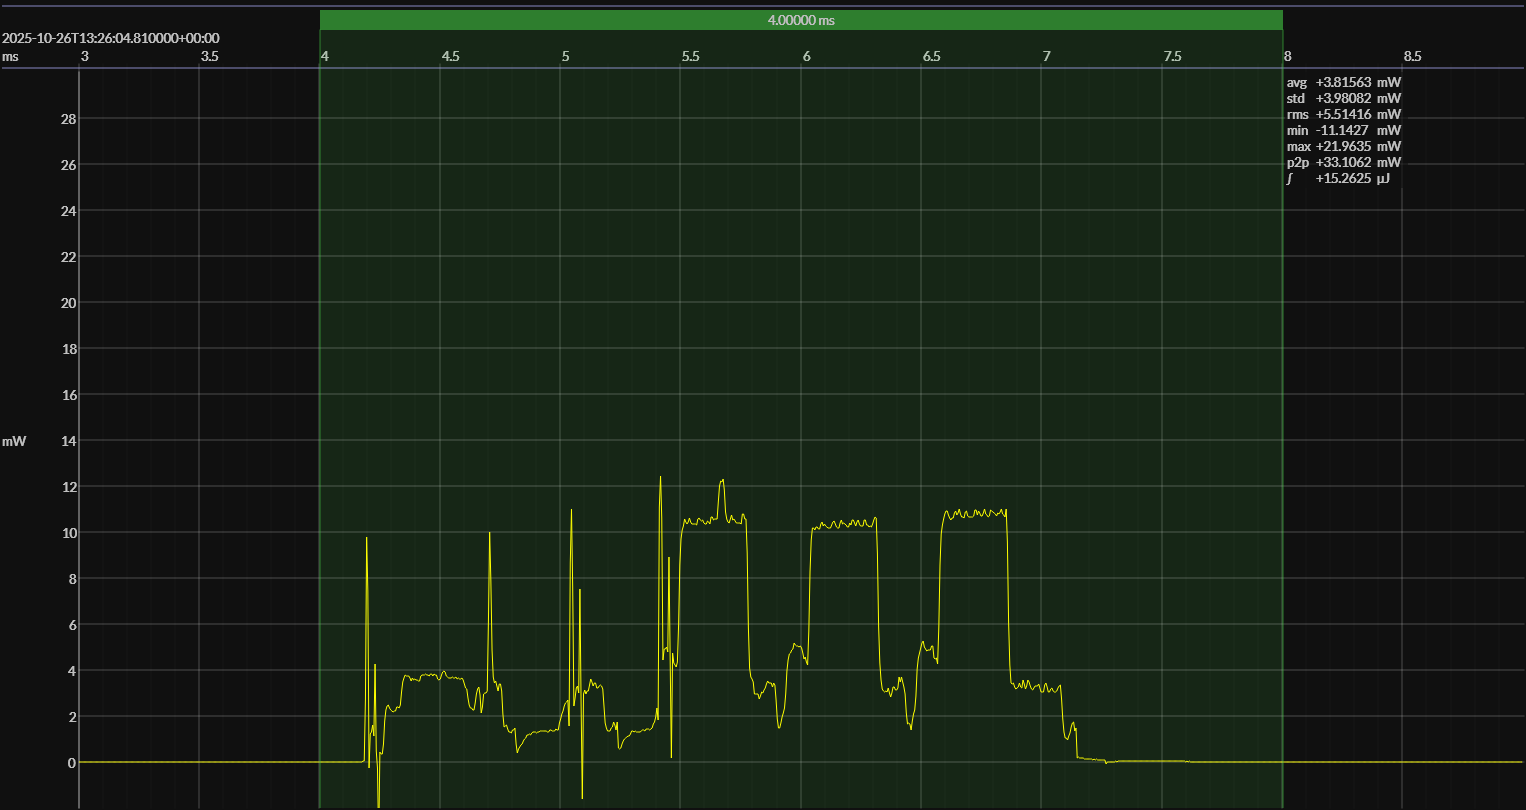
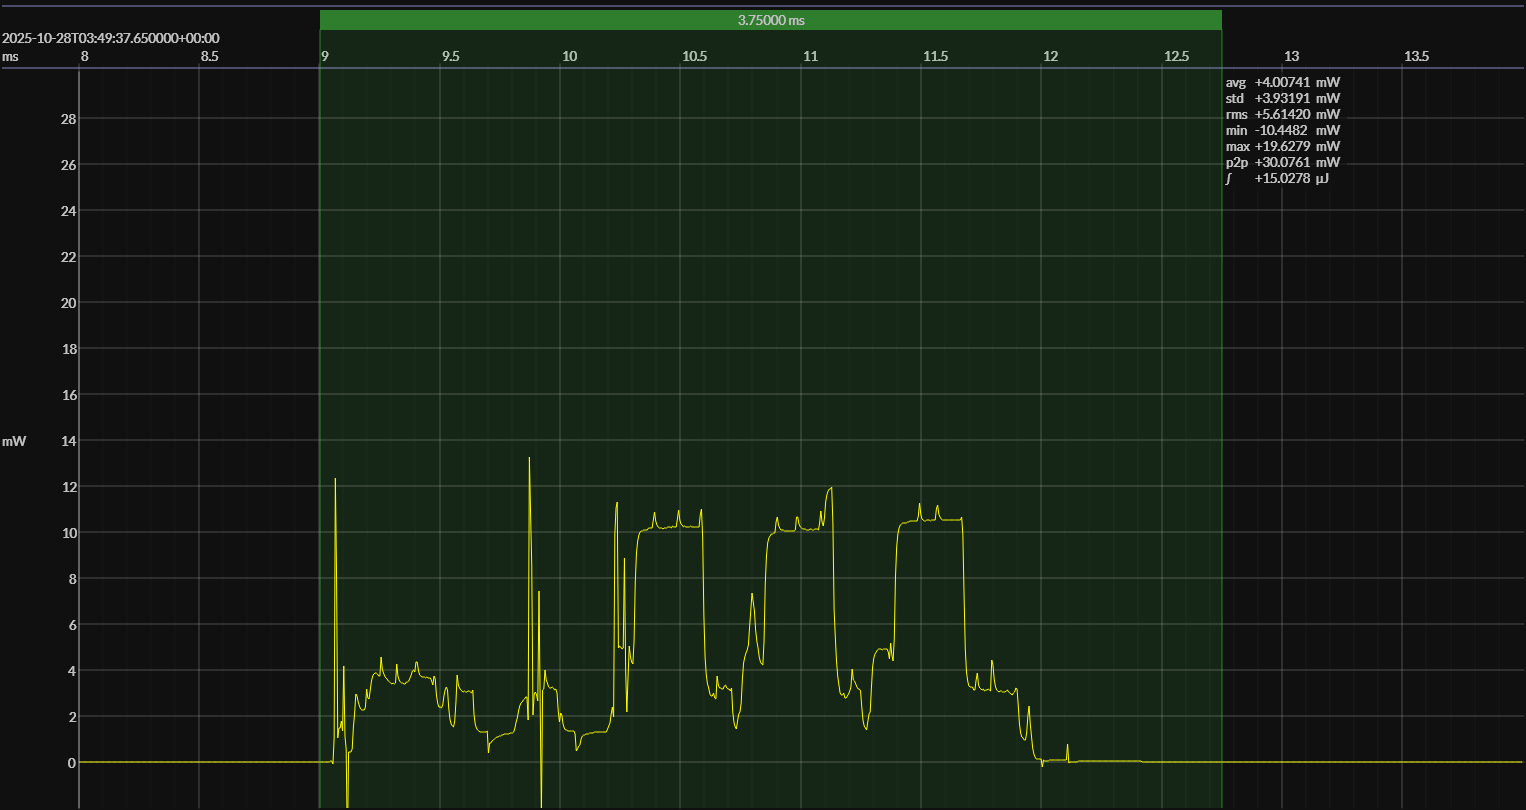
updated EMM capture; new record!!!

diff --git a/docs/ReadMore.md b/docs/ReadMore.md
@@ -1,3 +1,4 @@
+<!-- @upd|2025-10-28|latest EM Microelectronic 1V5 capture breaks 400 EM•erald mark|-->
 <!-- @upd|2025-10-26|improved score reporting; new 1V5 captures from EM Microelectronic and InPlay |-->
 <!-- @upd|2025-10-22|refreshed captures and screenshots for Nordic nRF52832|-->
 <!-- @upd|2025-10-17|new scores &ndash; EM Microelectronic EM9305 · EM Bleu SDK|-->
@@ -16,8 +17,8 @@
 <!-- @medal|1|js220/in-100-dk/nocode               |S| -->
 <!-- @medal|1|js220/nrf-54-dk/zephyr               |B| -->
 
-<!-- @medal|10|js220/in-100-dk/nocode              |G| -->
-<!-- @medal|10|js220/emm-9305-dvk/embleu           |S| -->
+<!-- @medal|10|js220/emm-9305-dvk/embleu           |G| -->
+<!-- @medal|10|js220/in-100-dk/nocode              |S| -->
 <!-- @medal|10|js220/ti-23-lp/simplelink           |B| -->
 
 
@@ -44,7 +45,8 @@ This repository uses **EM&bull;Scope** to benchmark **BlueJoule** &ndash; a repr
 
 <!-- @updates-begin -->
 <details><summary>
-&emsp;&thinsp;<img src="images/badge-2025-10-26.svg" height="16" alt="2025-10-12"></img>&emsp;improved score reporting; new 1V5 captures from EM Microelectronic and InPlay </summary><p>
+&emsp;&thinsp;<img src="images/badge-2025-10-28.svg" height="16" alt="2025-10-12"></img>&emsp;latest EM Microelectronic 1V5 capture breaks 400 EM•erald mark</summary><p>
+&emsp;&emsp;<img src="images/badge-2025-10-26.svg" height="16" alt="2025-10-12"></img>&emsp;improved score reporting; new 1V5 captures from EM Microelectronic and InPlay <br>
 &emsp;&emsp;<img src="images/badge-2025-10-22.svg" height="16" alt="2025-10-12"></img>&emsp;refreshed captures and screenshots for Nordic nRF52832<br>
 &emsp;&emsp;<img src="images/badge-2025-10-17.svg" height="16" alt="2025-10-12"></img>&emsp;new scores &ndash; EM Microelectronic EM9305 · EM Bleu SDK<br>
 &emsp;&emsp;<img src="images/badge-2025-09-11.svg" height="16" alt="2025-10-12"></img>&emsp;new scores &ndash; Nordic nRF52832 · EM&bull;Script SDK<br>
@@ -56,14 +58,14 @@ This repository uses **EM&bull;Scope** to benchmark **BlueJoule** &ndash; a repr
 
 <!-- @medals-begin -->
 <details><summary>&emsp;&ensp;1&thinsp;s event period [<img src="images/em-dot.svg" width="12" alt="">]</summary><p>
-&nbsp;&nbsp;&nbsp;&nbsp;&nbsp;&nbsp;&nbsp;&nbsp;&nbsp;&nbsp;&nbsp;&nbsp;&nbsp;&nbsp;&nbsp;&nbsp;&nbsp;&nbsp;&nbsp;&nbsp;&nbsp;&nbsp;&nbsp;&nbsp;<b>🥇</b>&emsp;<code> 56.82</code>&nbsp;&nbsp;&nbsp;&nbsp;&nbsp;&nbsp;&nbsp;&nbsp;&nbsp;&nbsp;&nbsp;📄&ensp;<a href="../captures/js220/emm-9305-dvk/embleu/ABOUT.md">&nearr;</a>&nbsp;&nbsp;EM Microelectronic EM9305 · EM Bleu SDK · 1V5<br>
+&nbsp;&nbsp;&nbsp;&nbsp;&nbsp;&nbsp;&nbsp;&nbsp;&nbsp;&nbsp;&nbsp;&nbsp;&nbsp;&nbsp;&nbsp;&nbsp;&nbsp;&nbsp;&nbsp;&nbsp;&nbsp;&nbsp;&nbsp;&nbsp;<b>🥇</b>&emsp;<code> 58.54</code>&nbsp;&nbsp;&nbsp;&nbsp;&nbsp;&nbsp;&nbsp;&nbsp;&nbsp;&nbsp;&nbsp;📄&ensp;<a href="../captures/js220/emm-9305-dvk/embleu/ABOUT.md">&nearr;</a>&nbsp;&nbsp;EM Microelectronic EM9305 · EM Bleu SDK · 1V5<br>
 &nbsp;&nbsp;&nbsp;&nbsp;&nbsp;&nbsp;&nbsp;&nbsp;&nbsp;&nbsp;&nbsp;&nbsp;&nbsp;&nbsp;&nbsp;&nbsp;&nbsp;&nbsp;&nbsp;&nbsp;&nbsp;&nbsp;&nbsp;&nbsp;<b>🥈</b>&emsp;<code> 51.56</code>&nbsp;&nbsp;&nbsp;&nbsp;&nbsp;&nbsp;&nbsp;&nbsp;&nbsp;&nbsp;&nbsp;📄&ensp;<a href="../captures/js220/in-100-dk/nocode/ABOUT.md">&nearr;</a>&nbsp;&nbsp;InPlay IN100 · &lt;no code&gt; · 1V5<br>
 &nbsp;&nbsp;&nbsp;&nbsp;&nbsp;&nbsp;&nbsp;&nbsp;&nbsp;&nbsp;&nbsp;&nbsp;&nbsp;&nbsp;&nbsp;&nbsp;&nbsp;&nbsp;&nbsp;&nbsp;&nbsp;&nbsp;&nbsp;&nbsp;<b>🥉</b>&emsp;<code> 39.61</code>&nbsp;&nbsp;&nbsp;&nbsp;&nbsp;&nbsp;&nbsp;&nbsp;&nbsp;&nbsp;&nbsp;📄&ensp;<a href="../captures/js220/nrf-54-dk/zephyr/ABOUT.md">&nearr;</a>&nbsp;&nbsp;Nordic nRF54L15 · Zephyr OS · 1V8<br>
 
 </p></details>
 <details><summary>&emsp;10&thinsp;s event period [<img src="images/em-dot.svg" width="12" alt="">]</summary><p>
-&nbsp;&nbsp;&nbsp;&nbsp;&nbsp;&nbsp;&nbsp;&nbsp;&nbsp;&nbsp;&nbsp;&nbsp;&nbsp;&nbsp;&nbsp;&nbsp;&nbsp;&nbsp;&nbsp;&nbsp;&nbsp;&nbsp;&nbsp;&nbsp;<b>🥇</b>&emsp;<code>386.73</code>&nbsp;&nbsp;&nbsp;&nbsp;&nbsp;&nbsp;&nbsp;&nbsp;&nbsp;&nbsp;&nbsp;📄&ensp;<a href="../captures/js220/in-100-dk/nocode/ABOUT.md">&nearr;</a>&nbsp;&nbsp;InPlay IN100 · &lt;no code&gt; · 1V5<br>
-&nbsp;&nbsp;&nbsp;&nbsp;&nbsp;&nbsp;&nbsp;&nbsp;&nbsp;&nbsp;&nbsp;&nbsp;&nbsp;&nbsp;&nbsp;&nbsp;&nbsp;&nbsp;&nbsp;&nbsp;&nbsp;&nbsp;&nbsp;&nbsp;<b>🥈</b>&emsp;<code>361.76</code>&nbsp;&nbsp;&nbsp;&nbsp;&nbsp;&nbsp;&nbsp;&nbsp;&nbsp;&nbsp;&nbsp;📄&ensp;<a href="../captures/js220/emm-9305-dvk/embleu/ABOUT.md">&nearr;</a>&nbsp;&nbsp;EM Microelectronic EM9305 · EM Bleu SDK · 1V5<br>
+&nbsp;&nbsp;&nbsp;&nbsp;&nbsp;&nbsp;&nbsp;&nbsp;&nbsp;&nbsp;&nbsp;&nbsp;&nbsp;&nbsp;&nbsp;&nbsp;&nbsp;&nbsp;&nbsp;&nbsp;&nbsp;&nbsp;&nbsp;&nbsp;<b>🥇</b>&emsp;<code>408.41</code>&nbsp;&nbsp;&nbsp;&nbsp;&nbsp;&nbsp;&nbsp;&nbsp;&nbsp;&nbsp;&nbsp;📄&ensp;<a href="../captures/js220/emm-9305-dvk/embleu/ABOUT.md">&nearr;</a>&nbsp;&nbsp;EM Microelectronic EM9305 · EM Bleu SDK · 1V5<br>
+&nbsp;&nbsp;&nbsp;&nbsp;&nbsp;&nbsp;&nbsp;&nbsp;&nbsp;&nbsp;&nbsp;&nbsp;&nbsp;&nbsp;&nbsp;&nbsp;&nbsp;&nbsp;&nbsp;&nbsp;&nbsp;&nbsp;&nbsp;&nbsp;<b>🥈</b>&emsp;<code>386.73</code>&nbsp;&nbsp;&nbsp;&nbsp;&nbsp;&nbsp;&nbsp;&nbsp;&nbsp;&nbsp;&nbsp;📄&ensp;<a href="../captures/js220/in-100-dk/nocode/ABOUT.md">&nearr;</a>&nbsp;&nbsp;InPlay IN100 · &lt;no code&gt; · 1V5<br>
 &nbsp;&nbsp;&nbsp;&nbsp;&nbsp;&nbsp;&nbsp;&nbsp;&nbsp;&nbsp;&nbsp;&nbsp;&nbsp;&nbsp;&nbsp;&nbsp;&nbsp;&nbsp;&nbsp;&nbsp;&nbsp;&nbsp;&nbsp;&nbsp;<b>🥉</b>&emsp;<code>197.07</code>&nbsp;&nbsp;&nbsp;&nbsp;&nbsp;&nbsp;&nbsp;&nbsp;&nbsp;&nbsp;&nbsp;📄&ensp;<a href="../captures/js220/ti-23-lp/simplelink/ABOUT.md">&nearr;</a>&nbsp;&nbsp;Texas Instruments CC2340R5 · SimpleLink SDK · 2V2<br>
 
 </p></details>
@@ -104,6 +106,7 @@ This repository houses the following curated **EM&bull;Scope** capture directori
 |---|:---:|:---:|---|
 | `adi-m17-evk/msdk`&emsp; | 📄&ensp;<a href="../captures/js220/adi-m17-evk/msdk/ABOUT.md">&nearr;</a> |  | &emsp; Analog Devices MAX32655 · Maxim SDK · 3V3 |
 | `emm-9305-dvk/embleu`&emsp; | 📄&ensp;<a href="../captures/js220/emm-9305-dvk/embleu/ABOUT.md">&nearr;</a> |  | &emsp; EM Microelectronic EM9305 · EM Bleu SDK · 1V5 |
+| `emm-9305-dvk/embleu-1V5-lfosc`&emsp; | 📄&ensp;<a href="../captures/js220/emm-9305-dvk/embleu-1V5-lfosc/ABOUT.md">&nearr;</a> |  | &emsp; EM Microelectronic EM9305 · EM Bleu SDK · 1V5 |
 | `emm-9305-dvk/embleu-1V8`&emsp; | 📄&ensp;<a href="../captures/js220/emm-9305-dvk/embleu-1V8/ABOUT.md">&nearr;</a> |  | &emsp; EM Microelectronic EM9305 · EM Bleu SDK · 1V8 |
 | `emm-9305-dvk/embleu-3V3`&emsp; | 📄&ensp;<a href="../captures/js220/emm-9305-dvk/embleu-3V3/ABOUT.md">&nearr;</a> |  | &emsp; EM Microelectronic EM9305 · EM Bleu SDK · 3V3 |
 | `in-100-dk/nocode`&emsp; | 📄&ensp;<a href="../captures/js220/in-100-dk/nocode/ABOUT.md">&nearr;</a> |  | &emsp; InPlay IN100 · &lt;no code&gt; · 1V5 |
@@ -161,7 +164,7 @@ To keep the table manageable in size, we've applied the following filter criteri
 | &emsp;&emsp;JS220 Capture&emsp;&emsp;&emsp;&emsp;&emsp;&emsp;&emsp; | sleep power [&thinsp;&mu;W&thinsp;] &ensp; | event energy [&thinsp;&mu;J&thinsp;] &ensp; | 1&thinsp;s period [<img src="images/em-dot.svg" width="12" alt="">] &emsp;&emsp; | 10&thinsp;s period [<img src="images/em-dot.svg" width="12" alt="">] &emsp;&emsp; |
 |---|---|---|---|---|
 | &nbsp;📈&nbsp;`adi-m17-evk/msdk`[&nbsp;&nearr;](../captures/js220/adi-m17-evk/msdk/ABOUT.md#typical-event "Analog Devices MAX32655 · Maxim SDK · 3V3") | &emsp;<code>14.593</code> | &emsp;<code>48.216</code> | &emsp;<code> 14.75</code> | &emsp;<code> 47.75</code> |
-| &nbsp;📈&nbsp;`emm-9305-dvk/embleu`[&nbsp;&nearr;](../captures/js220/emm-9305-dvk/embleu/ABOUT.md#typical-event "EM Microelectronic EM9305 · EM Bleu SDK · 1V5") | &emsp;<code> 1.031</code> | &emsp;<code>15.261</code> | &emsp;<code> 56.82</code> | &emsp;<code>361.76</code> |
+| &nbsp;📈&nbsp;`emm-9305-dvk/embleu`[&nbsp;&nearr;](../captures/js220/emm-9305-dvk/embleu/ABOUT.md#typical-event "EM Microelectronic EM9305 · EM Bleu SDK · 1V5") | &emsp;<code> 0.760</code> | &emsp;<code>15.055</code> | &emsp;<code> 58.54</code> | &emsp;<code>408.41</code> |
 | &nbsp;📈&nbsp;`in-100-dk/nocode`[&nbsp;&nearr;](../captures/js220/in-100-dk/nocode/ABOUT.md#typical-event "InPlay IN100 · &lt;no code&gt; · 1V5") | &emsp;<code> 0.663</code> | &emsp;<code>17.295</code> | &emsp;<code> 51.56</code> | &emsp;<code>386.73</code> |
 | &nbsp;📈&nbsp;`nrf-52-dk/zephyr`[&nbsp;&nearr;](../captures/js220/nrf-52-dk/zephyr/ABOUT.md#typical-event "Nordic nRF52832 · Zephyr OS · 2V7") | &emsp;<code> 3.524</code> | &emsp;<code>26.951</code> | &emsp;<code> 30.39</code> | &emsp;<code>148.96</code> |
 | &nbsp;📈&nbsp;`nrf-54-dk/zephyr`[&nbsp;&nearr;](../captures/js220/nrf-54-dk/zephyr/ABOUT.md#typical-event "Nordic nRF54L15 · Zephyr OS · 1V8") | &emsp;<code> 8.384</code> | &emsp;<code>14.984</code> | &emsp;<code> 39.61</code> | &emsp;<code> 93.59</code> |

diff --git a/captures/js220/emm-9305-dvk/embleu-1V5-lfosc/ABOUT.md b/captures/js220/emm-9305-dvk/embleu-1V5-lfosc/ABOUT.md
@@ -12,22 +12,22 @@
 
 | supply voltage | &emsp;current (avg)&emsp; | &emsp;current (std)&emsp; | &emsp;average power&emsp;
 |:---:|:---:|:---:|:---:|
-| 1.49 V | 510.100 nA | 748.626 nA | 761.592 nW |
+| 1.49 V | 692.161 nA | 739.713 nA |   1.033 µW |
 
 ### 🟠&ensp;1&thinsp;s event period
 
 | &emsp;&emsp;event energy (avg)&emsp;&emsp; | &emsp;&emsp;energy per period&emsp;&emsp; | &emsp;&emsp;energy per day&emsp;&emsp; | &emsp;&emsp;&emsp;**EM&bull;eralds**&emsp;&emsp;&emsp;
 |:---:|:---:|:---:|:---:|
-|  15.055 µJ |  15.817 µJ |   1.367 J | 58.54 |
+|  15.261 µJ |  16.295 µJ |   1.408 J | 56.82 |
 
 ### 🟠&ensp;10&thinsp;s event period
 
 | &emsp;&emsp;event energy (avg)&emsp;&emsp; | &emsp;&emsp;energy per period&emsp;&emsp; | &emsp;&emsp;energy per day&emsp;&emsp; | &emsp;&emsp;&emsp;**EM&bull;eralds**&emsp;&emsp;&emsp;
 |:---:|:---:|:---:|:---:|
-|  15.055 µJ |  22.671 µJ | 195.881 mJ | 408.41 |
+|  15.261 µJ |  25.595 µJ | 221.143 mJ | 361.76 |
 
 <br>
-<p align="right"><sub>generated at 2025-10-28T03:51:13.607Z</sub></p>
+<p align="right"><sub>generated at 2025-10-26T13:27:12.127Z</sub></p>
     
 
 <!-- @emscope-pack:end -->
